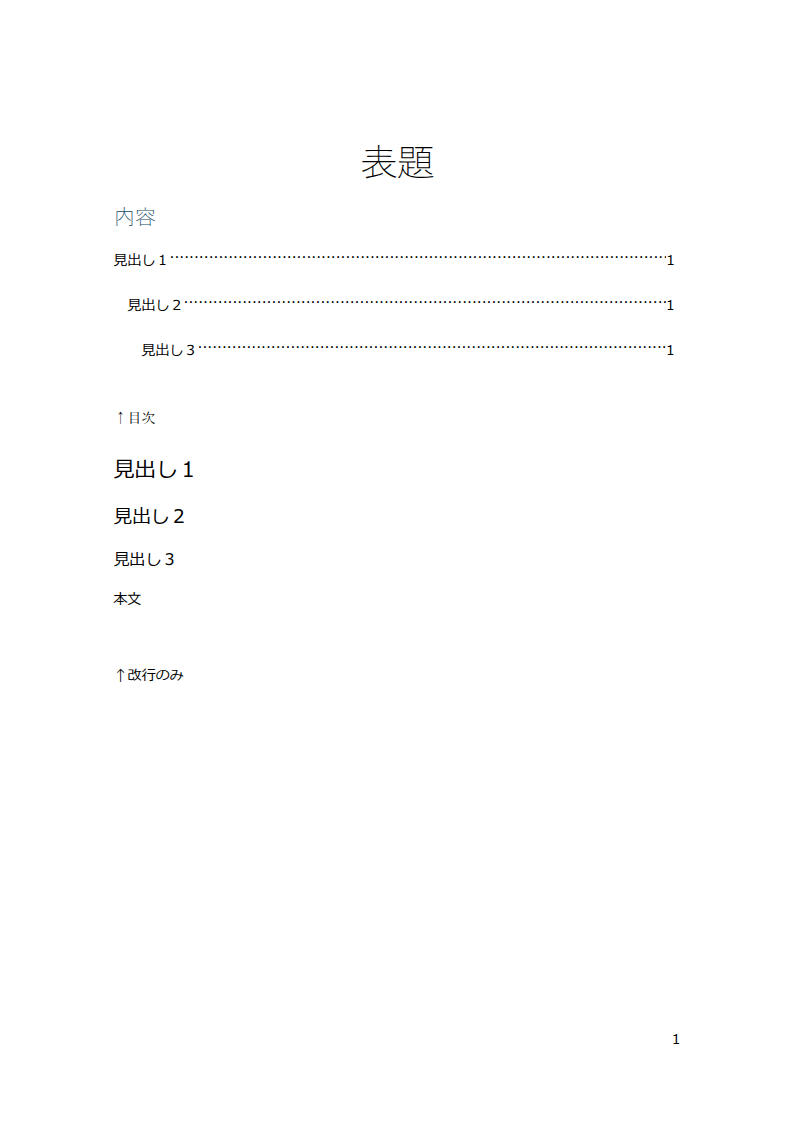
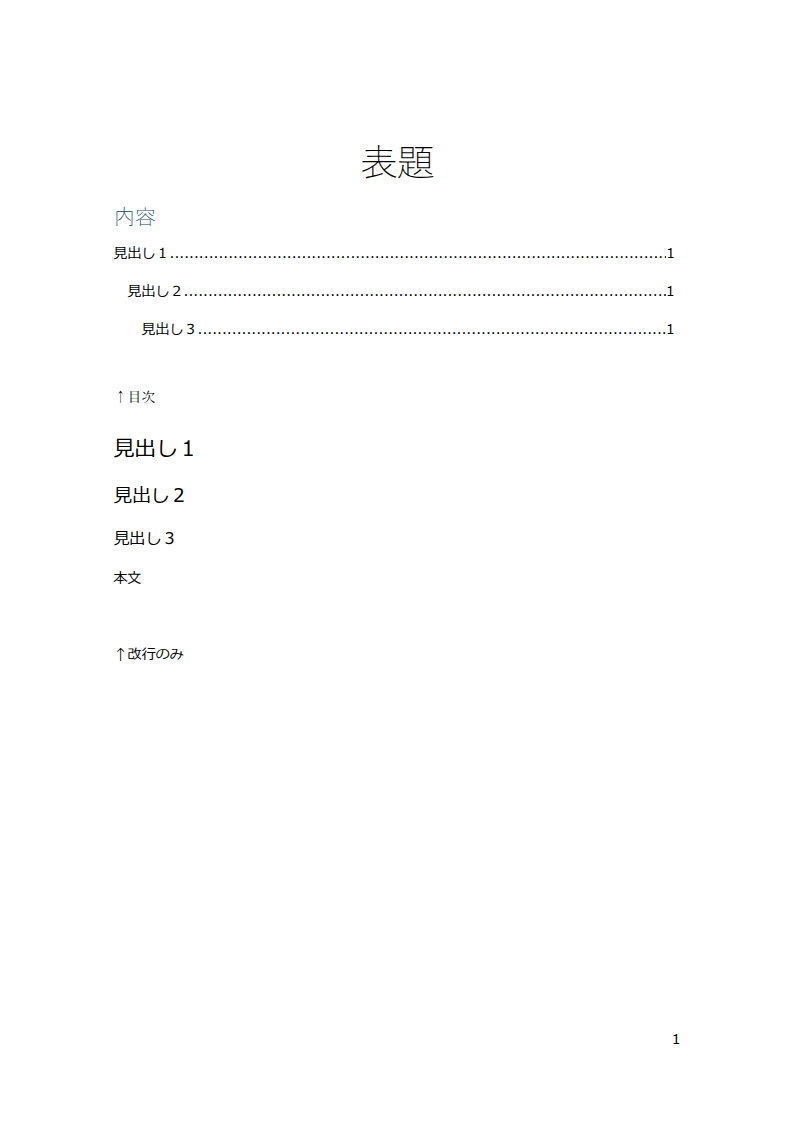
スコアはp1 99.531→99.486に下がったが、見た目上のバグ(点々が浮く)は解消。指摘通りvisual優先でkeepした。

Changed region(s): [[0.1209, 0.2182, 0.272, 0.6233], [0.8161, 0.2493, 0.8463, 0.3117]]

diff --git a/src/javascript.ts b/src/javascript.ts
@@ -112,6 +112,12 @@ function applyTabLeader(element: HTMLElement, leader: string, widthPt: number, p
 	element.style.overflow = 'hidden';
 	element.style.whiteSpace = 'nowrap';
 	element.style.textDecoration = 'inherit';
+	// A non-`visible` overflow turns this inline-block's baseline into its
+	// bottom margin edge (CSS2.1 10.8.1) instead of its text's own baseline -
+	// pulling the leader glyphs up off the line's real baseline and forcing
+	// the whole line box to grow to contain both. Aligning by bottom instead
+	// keeps the glyphs on the same baseline as the rest of the line.
+	element.style.verticalAlign = 'bottom';
 
 	const glyph = leaderGlyph(leader);
 	if (!glyph) {

diff --git a/ACCURACY.md b/ACCURACY.md
@@ -8,7 +8,7 @@ Every library renders `tests/fixtures/a.docx` inside `benchmark/`, at viewport 1
 
 | Library | Pages rendered | Overall score |
 |---|---|---|
-| docx-renderer (this project) | 5 / 5 | **98.899%** |
+| docx-renderer (this project) | 5 / 5 | **98.890%** |
 | docx-preview-sync (fork parent) | 5 / 5 | **94.227%** |
 | docx-preview (docxjs, original) | 3 / 5 | **53.285%** |
 
@@ -16,13 +16,13 @@ Every library renders `tests/fixtures/a.docx` inside `benchmark/`, at viewport 1
 
 | Page | Score |
 |---|---|
-| 1 | 99.531% |
+| 1 | 99.486% |
 | 2 | 98.702% |
 | 3 | 99.787% |
 | 4 | 99.376% |
 | 5 | 97.101% |
 
-### Page 1 — 99.531%
+### Page 1 — 99.486%
 
 <p align="center">
   <img src="./accuracy/docx-renderer/page-1-reference.png" width="30%" alt="Word reference, page 1">
